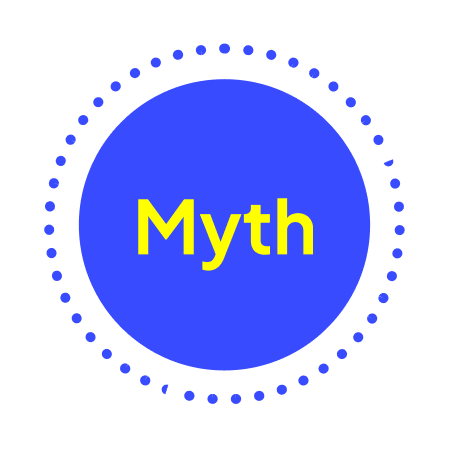
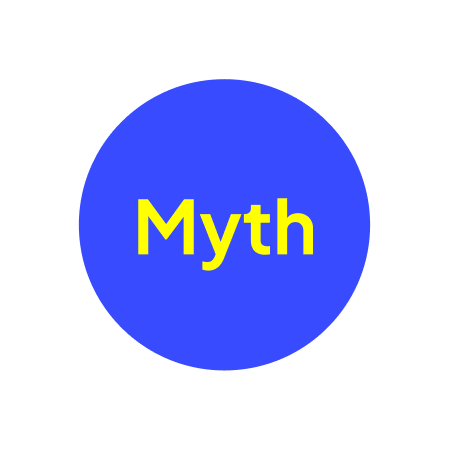
make adjustrments

diff --git a/components/MythVsReality.tsx b/components/MythVsReality.tsx
@@ -4,24 +4,38 @@ import Image from "next/image";
 export default function MythVsReality() {
   return (
     <div className="container pad">
-    <p className="color heading text-center font-[800]">Myth vs Reality</p>
-    <p className="text-[20px] text-center font-[400]">Discover AllSpark Technologies, a leading website development agency in USA.</p>
-    <div className="bg w-[87%]  p-[20px] mt-[40px]  6 relative hidden lg:flex">
-        <Image src="/myth.png" alt="myth" width={200} height={200} className="w-[22%] translate-x-[-20%] translate-y-[-22%] h-auto absolute top-0 left-0"  />
+      <p className="color heading text-center font-[800]">Myth vs Reality</p>
+      <p className="text-[20px] text-center font-[400]">Discover AllSpark Technologies, a leading website development agency in USA.</p>
+      <div className="bg w-[87%]  p-[20px] mt-[40px]  6 relative hidden lg:flex">
+        <span className="w-[22%] translate-x-[-20%] translate-y-[-22%] h-auto absolute top-0 left-0 " >
+          <Image src={"/circle.png"} alt="circle" unoptimized className="w-[80%] absolute top-[50%] left-[50%] translate-x-[-50%] translate-y-[-50%] animate-spin [animation-duration:7s] [animation-duration:7s]" width={200} height={200} />
+          <Image src="/myth.png" alt="myth" width={200} height={200} className="w-full" />
+        </span>
         <p className="text-white text-[20px] xl:text-[25px] 2xl:text-[35px] w-[80%]  ml-auto">You need months of development and a big agency to get a professional website.</p>
-    </div>
-    <div className="bg w-[87%] ml-auto  p-[20px] mt-[20px]  relative hidden lg:flex">
-        <Image src="/reality.png" alt="myth" width={200} height={200} className="w-[22%] translate-x-[20%] translate-y-[-22%] h-auto absolute top-0 right-0"  />
+      </div>
+      <div className="bg w-[87%] ml-auto  p-[20px] mt-[20px]  relative hidden lg:flex">
+        <span className="w-[22%] translate-x-[20%] translate-y-[-22%] h-auto absolute top-0 right-0">
+          <Image src={"/circle.png"} alt="circle" unoptimized className="w-[80%] absolute top-[50%] left-[50%] translate-x-[-50%] translate-y-[-50%] animate-spin [animation-duration:7s]" width={200} height={200} />
+          <Image src="/reality.png" alt="myth" width={200} height={200} className="w-full" />
+        </span>
         <p className="text-white text-[20px] xl:text-[25px] 2xl:text-[35px] w-[80%]  mr-auto">You just need a smart partner like All Spark Tech who knows what actually converts.</p>
-    </div>
-    <div className="flex flex-col items-center lg:hidden bg  mt-[50px] sm:mt-[95px]">
-        <Image src="/myth.png" alt="myth" width={200} height={200} className="w-[20%] translate-y-[-50%] absolute"  />
-         <p className="text-white text-[20px] xl:text-[25px] 2xl:text-[35px] w-[80%]  mx-auto text-center pt-[15%] pb-[20px]">You need months of development and a big agency to get a professional website.</p>
-    </div>
-    <div className="flex flex-col items-center lg:hidden bg  mt-[60px] sm:mt-[120px]">
-        <Image src="/reality.png" alt="myth" width={200} height={200} className="w-[20%] translate-y-[-50%] absolute"  />
-         <p className="text-white text-[20px] xl:text-[25px] 2xl:text-[35px] w-[80%]  mx-auto text-center pt-[15%] pb-[20px]">You just need a smart partner like All Spark Tech who knows what actually converts.</p>
-    </div>
+      </div>
+      <div className="flex flex-col items-center lg:hidden bg  mt-[50px] sm:mt-[95px]">
+        <span className="w-[20%] translate-y-[-50%] absolute">
+          <Image src={"/circle.png"} alt="circle" unoptimized className="w-[80%] absolute top-[50%] left-[50%] translate-x-[-50%] translate-y-[-50%] animate-spin [animation-duration:7s]" width={200} height={200} />
+
+          <Image src="/myth.png" alt="myth" width={200} height={200} className="w-full" />
+        </span>
+        <p className="text-white text-[20px] xl:text-[25px] 2xl:text-[35px] w-[80%]  mx-auto text-center pt-[15%] pb-[20px]">You need months of development and a big agency to get a professional website.</p>
+      </div>
+      <div className="flex flex-col items-center lg:hidden bg  mt-[60px] sm:mt-[120px]">
+        <span className="w-[20%] translate-y-[-50%] absolute">
+          <Image src={"/circle.png"} alt="circle" unoptimized className="w-[80%] absolute top-[50%] left-[50%] translate-x-[-50%] translate-y-[-50%] animate-spin [animation-duration:7s] !duration-300" width={200} height={200} />
+
+          <Image src="/reality.png" alt="myth" width={200} height={200} className="w-full" />
+        </span>
+        <p className="text-white text-[20px] xl:text-[25px] 2xl:text-[35px] w-[80%]  mx-auto text-center pt-[15%] pb-[20px]">You just need a smart partner like All Spark Tech who knows what actually converts.</p>
+      </div>
     </div>
   )
 }

diff --git a/components/ServiceHero.tsx b/components/ServiceHero.tsx
@@ -87,9 +87,9 @@ export default function ServiceHero({ serviceHero }: ServiceHeroProps) {
                     animate={{ x: 0, opacity: 1 }}
                     transition={{ duration: 1.5, ease: "easeOut" }}>
                     <Link href='/contact'>
-                        <button className=' flex items-center gap-[5px] border py-[10px] px-[20px] rounded-[27px] font-[500] mt-[50px] lg:mt-0  hover:scale-[1.02] duration-500 hidden sm:block'>No Website = No Trust. Let’s Fix That.</button>
+                        <button className=' flex items-center gap-[5px] border py-[10px] px-[20px] rounded-[27px] font-[500] sm:mt-[50px] lg:mt-0  hover:scale-[1.02] duration-500 hidden sm:block'>No Website = No Trust. Let’s Fix That.</button>
                     </Link>
-                    <p className='text-[30px] lg:text-[40px] 2xl:text-[50px] font-[700] mt-[20px] w-full md:w-[70%] lg:w-full leading-14 font'>Still Running Your Business without a Proper Website?</p>
+                    <p className='text-[30px] lg:text-[40px] 2xl:text-[50px] font-[700] sm:mt-[20px] w-full md:w-[70%] lg:w-full leading-14 font'>Still Running Your Business without a Proper Website?</p>
                     <p className='w-full md:w-[80%] lg:w-full mt-[10px] text-[18px] hidden sm:block '>Without a proper website, you’re invisible to 70% of buyers who search online before making a decision. We build professional websites that put your business on the map — and in front of paying customers.</p>
                    
                 </motion.div>
@@ -103,7 +103,7 @@ export default function ServiceHero({ serviceHero }: ServiceHeroProps) {
                         <p className='para font-[500] text-start '>{serviceHero.formSubtitle}</p>
                         <Image src={arrowright} className='w-[35px]' alt='icon'></Image>
                     </div>
-                    <p className='heading font-[700] my-[10px] text-start w-full'>{serviceHero.formTitle}</p>
+                    <p className='heading font-[700] sm:my-[10px] text-start w-full'>{serviceHero.formTitle}</p>
                     <form onSubmit={handleSubmit} className='w-full'>
                         <div className='w-full flex flex-col items-center sm:items-start gap-[10px] relative z-[20]'>
                             <div className='flex gap-[15px] mt-[0px] w-full relative z-[20]'>

diff --git a/components/ContactForm.tsx b/components/ContactForm.tsx
@@ -53,9 +53,9 @@ export default function ContactForm() {
 
 
   return (
-    <div className="container flex flex-wrap bg2 min-h-[680px] mar pt-[20px] " id="contact">
+    <div className="container flex flex-wrap bg2 min-h-[680px] mar sm:pt-[20px] " id="contact">
       {/* Left Side */}
-      <div className="w-full lg:w-1/2 relative px-[30px] sm:px-[40px] pt-[40px]">
+      <div className="w-full lg:w-1/2 relative px-[30px] sm:px-[40px] lg:pt-[40px] hidden sm:block">
         <div className="mb-2 flex items-center space-x-2 para font-semibold color mt-[40px] lg:mt-0 justify-start text-start">
           <Image src="/arw.png" alt="arrow" width={200} height={200} className="w-7" />
           <span className="font text-white">Let’s Get Started</span>
@@ -83,7 +83,7 @@ export default function ContactForm() {
       </div>
 
       {/* Right Side (Form) */}
-      <div className="w-full lg:w-1/2 text-white mt-[60px] lg:mt-0">
+      <div className="w-full lg:w-1/2 text-white sm:mt-[60px] lg:mt-0">
         <div className="w-[90%] mx-auto lg:mx-0 flex flex-col items-start">
           <p className="text-[27px] lg:text-[33px] 2xl:text-[34px] font-[700] my-[10px] text-start font">
             Got an Idea in Mind? Let’s Make It Live.

diff --git a/components/RoadmapSection.tsx b/components/RoadmapSection.tsx
@@ -35,10 +35,10 @@ export default function RoadmapSection() {
   return (
     <section className="w-full bg-white" id="relaunch-roadmap">
       <div className="h-full">
-        <div className="grid h-full overflow-hidden bg-gray-100 md:grid-cols-2">
+        <div className="grid  bg-gray-100 md:grid-cols-2">
           {/* Left: Form */}
-          <div className="bg-[#181965] min-h-[70vh]">
-            <div className="max-w-[95%] mx-auto lg:max-w-[70%] h-full p-6 sm:p-8 md:p-10 my-5 flex flex-col justify-center">
+          <div className="bg-[#181965] ">
+            <div className="max-w-[95%] mx-auto lg:max-w-[70%] h-full p-6 sm:p-8 md:p-10 my-5 flex flex-col sm:justify-center">
               <h2 className="heading font-bold leading-tight text-white sm:text-[36px] xl:max-w-[75%]">
                 Free Website Launch or Relaunch Roadmap
               </h2>

diff --git a/app/globals.css b/app/globals.css
@@ -315,7 +315,7 @@ ol {
 }
 
 .pad {
-  @apply py-[50px] lg:py-[80px];
+  @apply py-[30px] sm:py-[50px] lg:py-[80px];
 }
 .mar {
   @apply my-[50px] lg:my-[80px];
@@ -344,4 +344,28 @@ input,
 textarea,
 select {
   @apply focus:outline-0;
+}
+
+/* Basic infinite spin */
+.spin {
+  animation: spin 2s linear infinite;
+}
+
+
+
+/* Keyframes */
+@keyframes spin {
+  from { transform: rotate(0deg); }
+  to   { transform: rotate(360deg); }
+}
+
+/* Accessibility: stop animation if user prefers reduced motion */
+@media (prefers-reduced-motion: reduce) {
+  .spin,
+  .spin-slow,
+  .spin-fast,
+  .spin-reverse {
+    animation: none !important;
+    transform: none !important;
+  }
 }

diff --git a/components/FaqSection.tsx b/components/FaqSection.tsx
@@ -63,7 +63,7 @@ const itemVariants: Variants = {
 
   return (
     <section className="pad w-[100vw] overflow-x-hidden" id="faqs">
-      <div className="container pt-[3%] flex flex-col lg:flex-row items-center lg:justify-between gap-10 ">
+      <div className="container pt-[3%] flex flex-col lg:flex-row items-center lg:justify-between gap-5 lg:gap-10 ">
         {/* ───────── LEFT IMAGE SECTION ───────── */}
         <motion.div
           className="relative w-[90%] lg:w-[43%] mr-auto     "

diff --git a/components/CoreWebServices.tsx b/components/CoreWebServices.tsx
@@ -44,7 +44,7 @@ const services = [
 
 export default function CoreWebServices() {
   return (
-    <section className= "py-16 bg-white" id='services'>
+    <section className= "pad bg-white" id='services'>
       <div className="container  sm:text-center">
         <h2 className="heading font-bold color">
           Core Web Development Services
